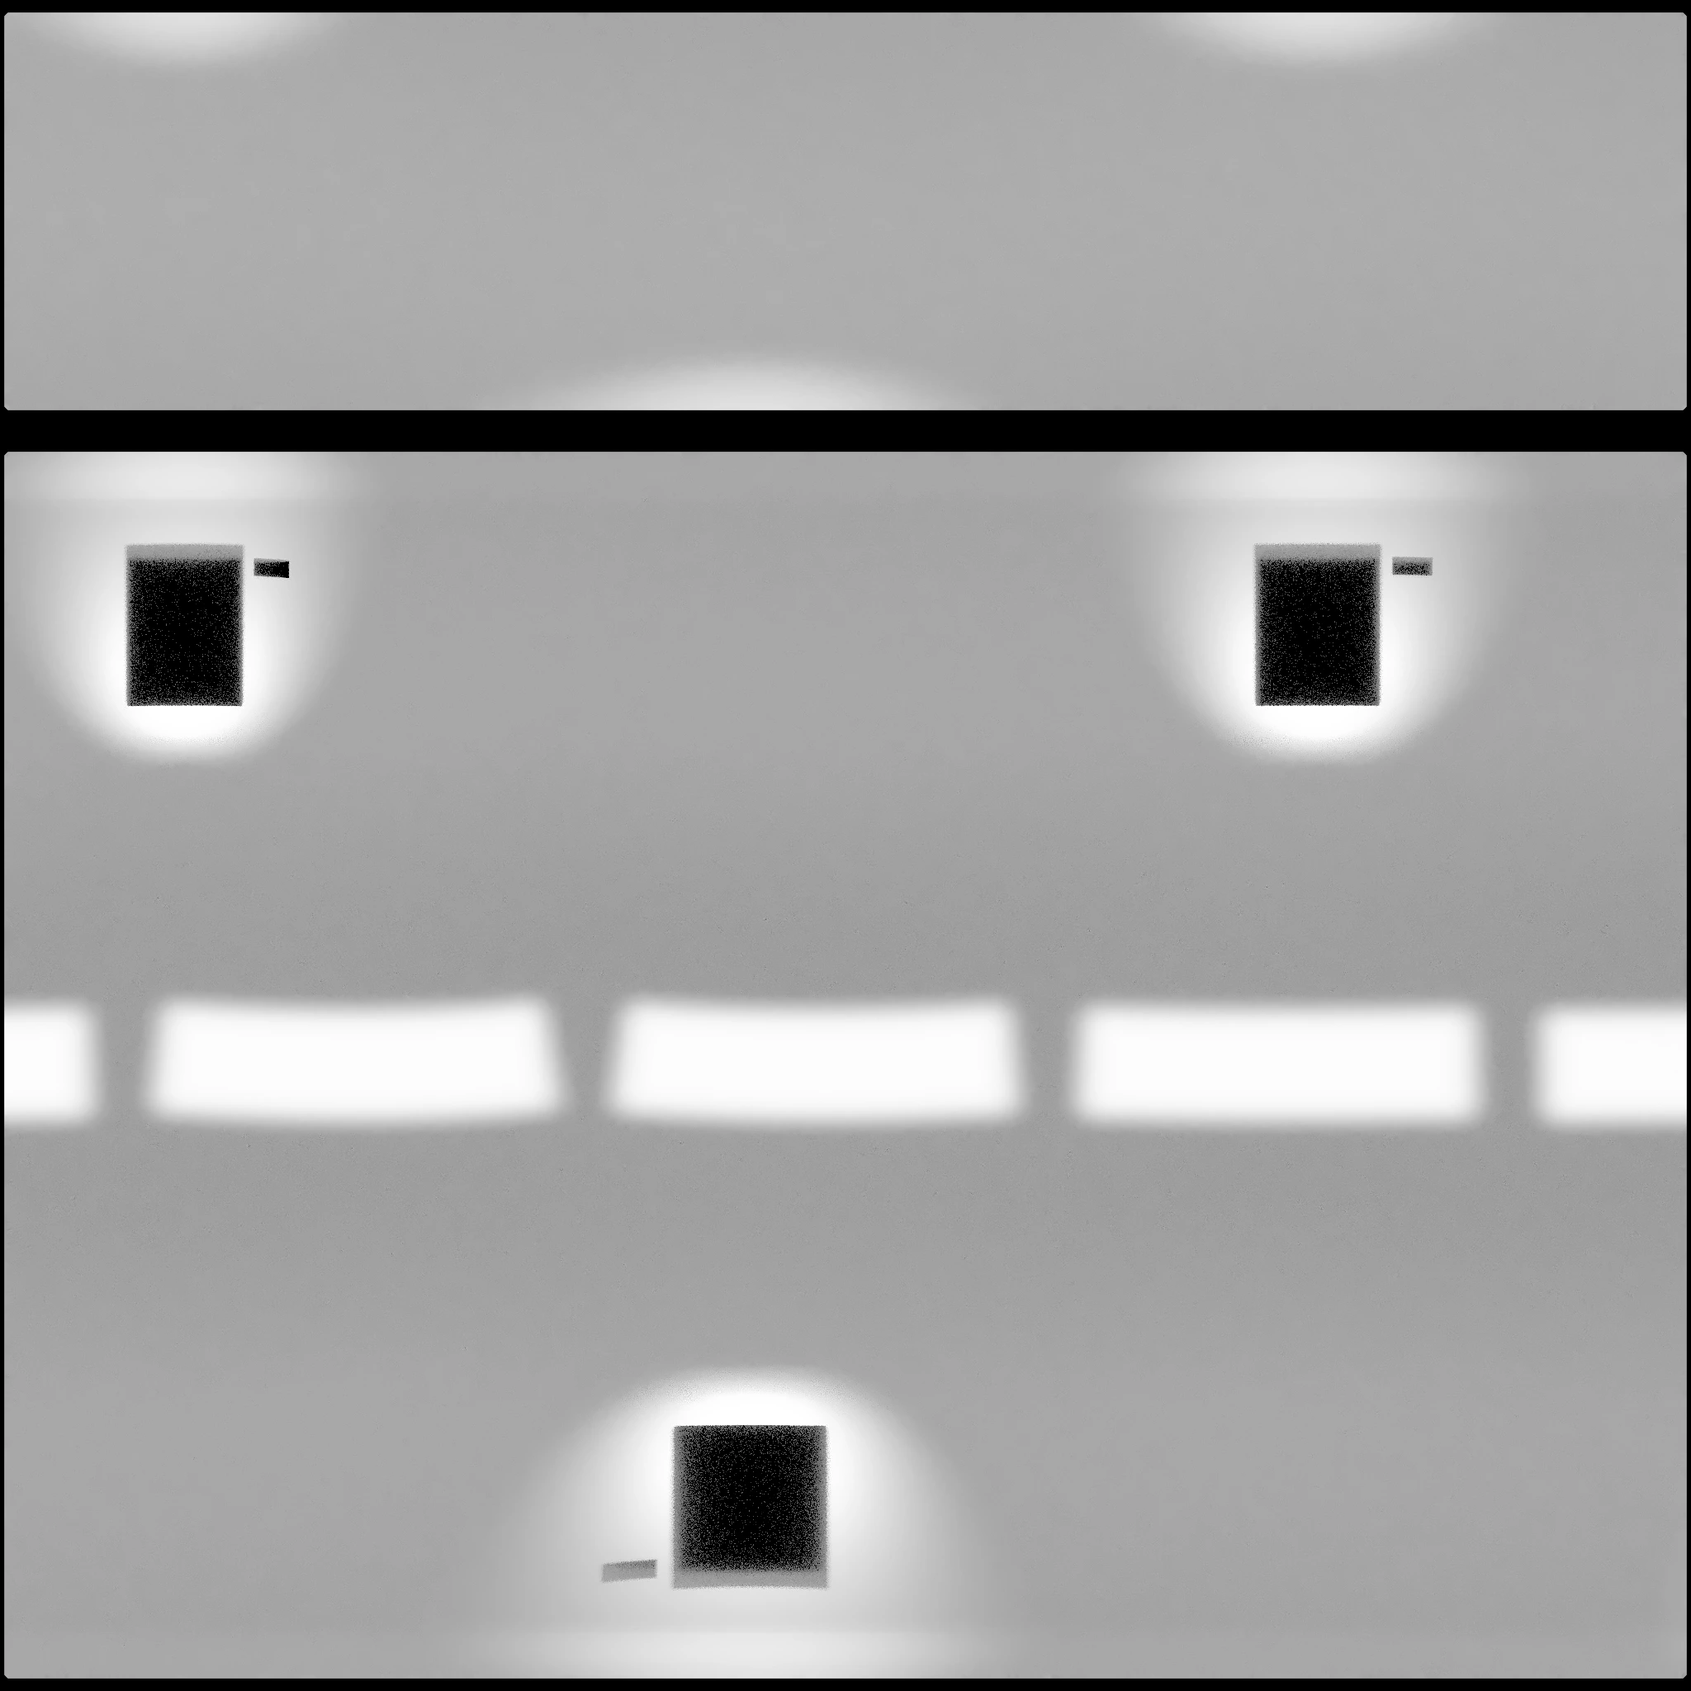
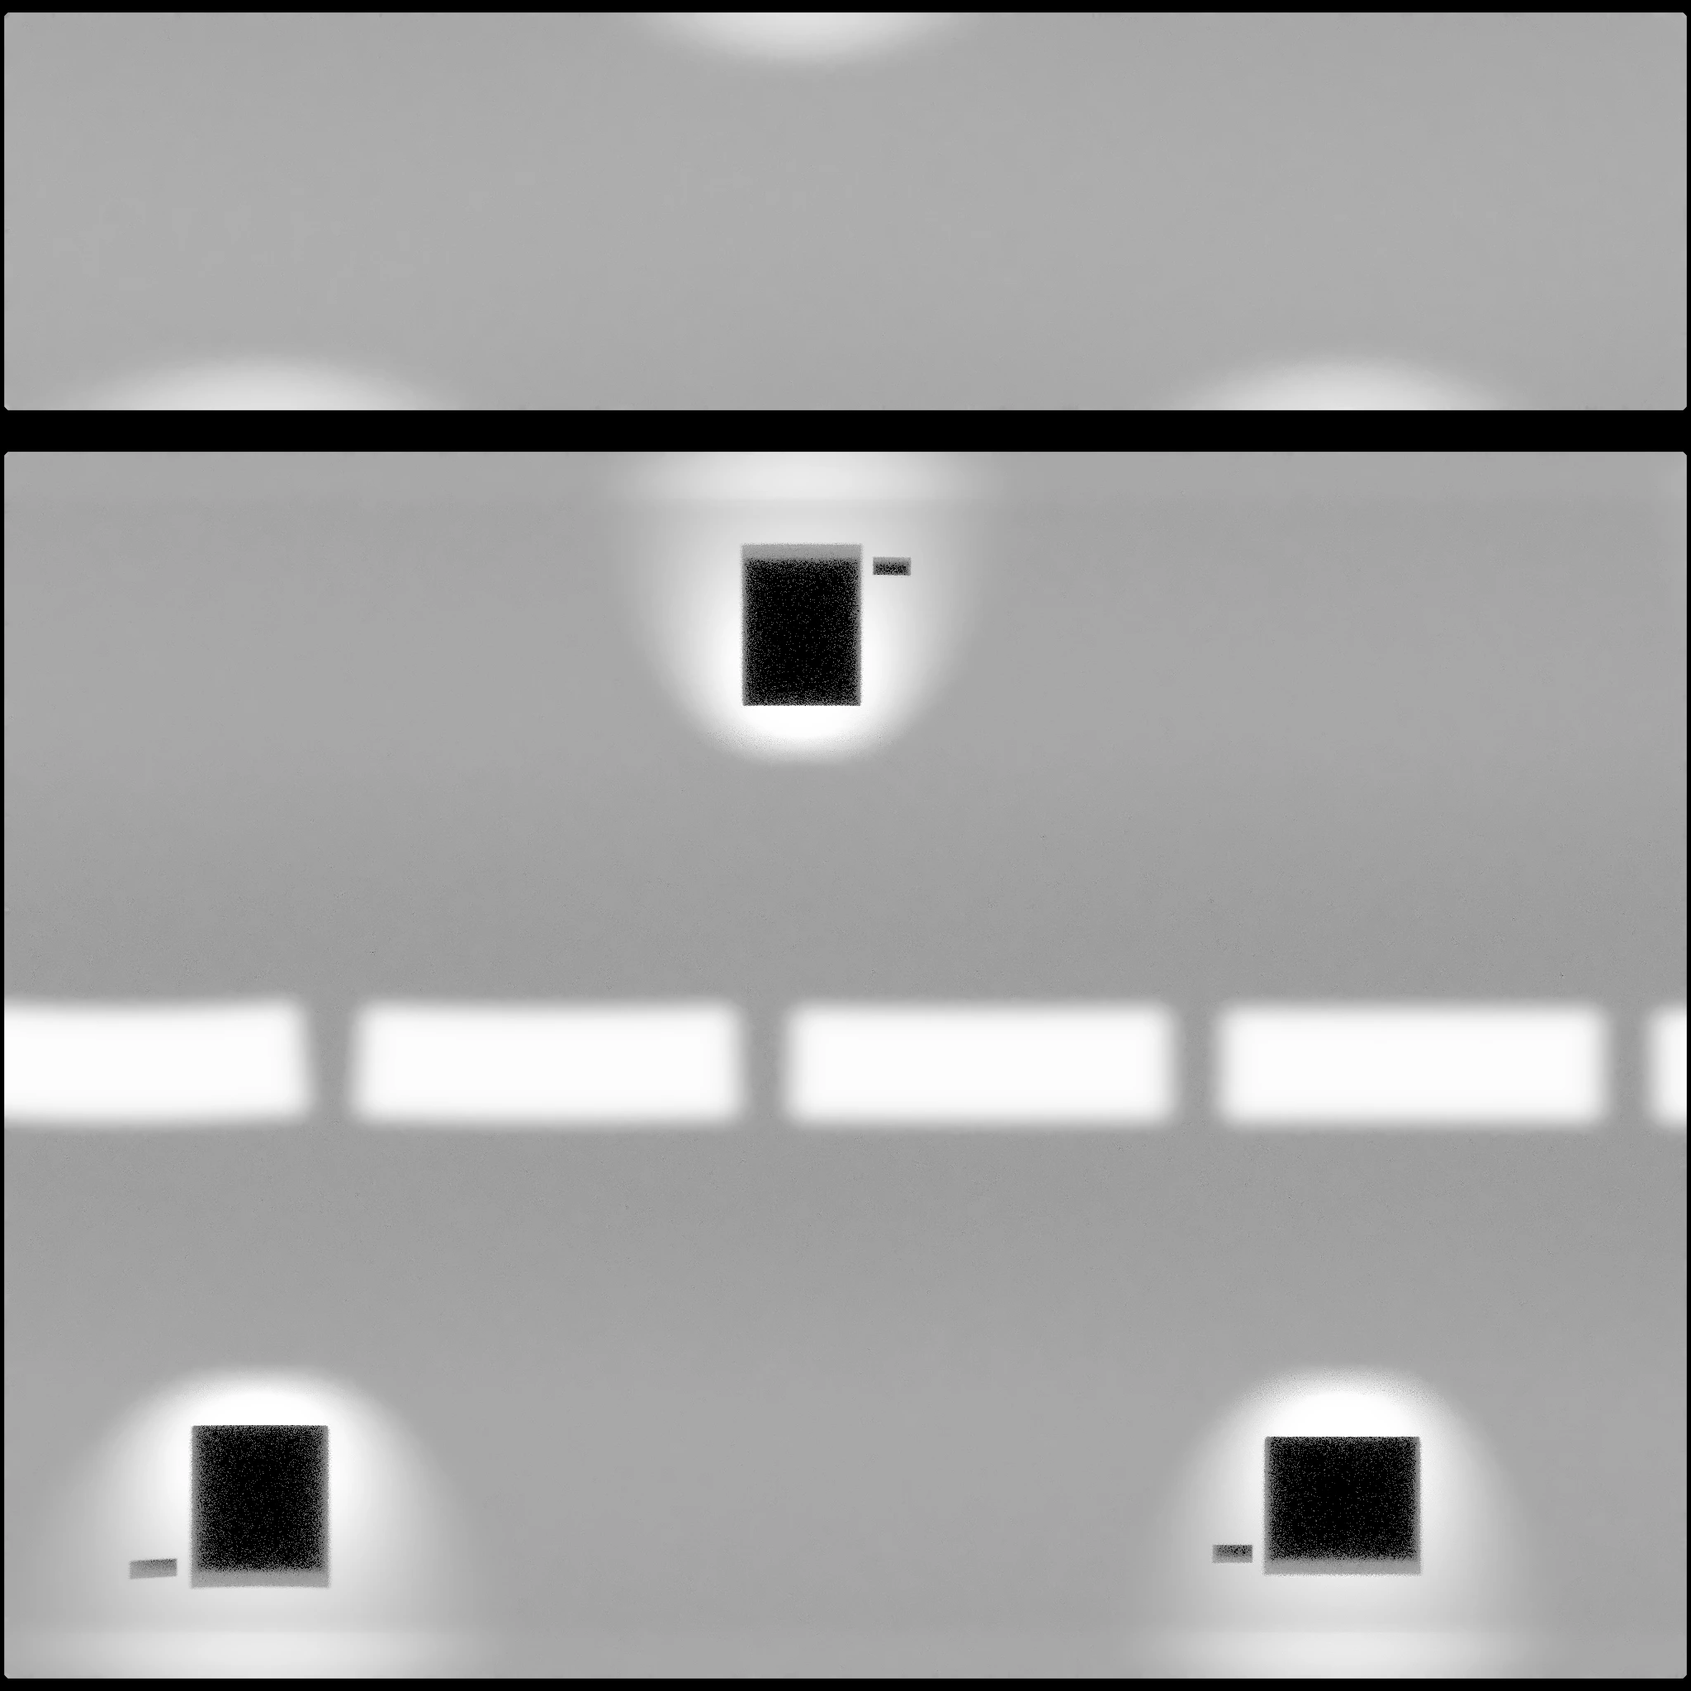
ZsArt: A vágy (21. kép), hiányzó shop-linkek, ecset-kurzor, fotó a végfalon, újrasütött fény 21 képpel
Claude-Session: https://claude.ai/code/session_01VdjVJekSgJN5NPM9qWpNCb

diff --git a/src/components/zsart/data.ts b/src/components/zsart/data.ts
@@ -6,10 +6,10 @@ const WORKS: Work[] = [
   {"id": "minden-jo", "title": "Minden jó!", "artist": "Zsoze", "year": 2025, "medium": "Akril vásznon", "story": "Ami ihlette a képet, mikor megkérdezi valaki, hogy vagy és csak annyi jön ki belőled, hogy minden jó. Pedig ez nem igaz és valójában a kérdezőt sem érdekli a valóság. Mindannyian vagyunk így néha amikor úgy látjuk minden rossz és semmi nem olyan amilyennek szeretnénk. Mégis kifelé ezt nem mondjuk, mutatjuk hogy Minden jó.", "w": 1.032, "h": 1.55, "palette": ["#111", "#111", "#111", "#111"], "style": 0, "img": "/zsart/minden-jo.webp?v=2", "imgM": "/zsart/minden-jo-m.webp?v=2", "imgT": "/zsart/minden-jo-t.webp", "shop": "https://shop.zsart.hu/products/minden-jo", "video": "https://www.youtube.com/watch?v=OmAifCcdAd0"},
   {"id": "regi-cipo", "title": "Régi cipő", "artist": "Zsoze", "year": 2026, "medium": "Akril vásznon", "story": "", "w": 1.035, "h": 1.55, "palette": ["#111", "#111", "#111", "#111"], "style": 0, "img": "/zsart/regi-cipo.webp?v=2", "imgM": "/zsart/regi-cipo-m.webp?v=2", "imgT": "/zsart/regi-cipo-t.webp"},
   {"id": "ido-1", "title": "Idő 1", "artist": "Zsoze", "year": 2026, "medium": "Akril vásznon", "story": "Az Idő cimű sorozat első festménye. 15 éves lehettem, mikor belenéztem a tükörbe, és így megnéztem magam alaposan. Élesen emlékszem rá, majd eszembe jutott ez a pillanat 20 évvel később, és újra belenéztem, de a gondolataimban még arra emlékeztem, amikor 15 éves vagyok. A tükörben meg egy 36 éves forma van, bazzeg, az idő rohan, és az ember próbálja tartani a lépést fejben, de lehetetlen. A képen a képzeletbeli 70 éves ember vagyok. És a sok hirtelen, rohanásból meghozott döntés, ami akkor 2 perc volt, jó döntések voltak-e? Jól használtam-e föl az időt? Mit hibáztam? Mit csinálnék másképpen? Erről a gondolatmenetről szól ez a sorozat és az ez miatti aggódásról.", "w": 1.035, "h": 1.55, "palette": ["#111", "#111", "#111", "#111"], "style": 0, "img": "/zsart/ido-1.webp?v=2", "imgM": "/zsart/ido-1-m.webp?v=2", "imgT": "/zsart/ido-1-t.webp", "shop": "https://shop.zsart.hu/products/ido-1", "video": "https://www.youtube.com/watch?v=dfYFkAKRV5Q"},
-  {"id": "ido-2", "title": "Idő 2", "artist": "Zsoze", "year": 2026, "medium": "Akril vásznon", "story": "Az Idő című sorozat második festménye.", "w": 1.027, "h": 1.55, "palette": ["#111", "#111", "#111", "#111"], "style": 0, "img": "/zsart/ido-2.webp?v=2", "imgM": "/zsart/ido-2-m.webp?v=2", "imgT": "/zsart/ido-2-t.webp", "video": "https://www.youtube.com/watch?v=f8akID2Es54"},
-  {"id": "ido-3", "title": "Idő 3", "artist": "Zsoze", "year": 2026, "medium": "Akril vásznon", "story": "Az Idő című sorozat harmadik festménye. Idős kori önarckép az idő sorozat záró festménye", "w": 1.023, "h": 1.55, "palette": ["#111", "#111", "#111", "#111"], "style": 0, "img": "/zsart/ido-3.webp?v=2", "imgM": "/zsart/ido-3-m.webp?v=2", "imgT": "/zsart/ido-3-t.webp", "video": "https://www.youtube.com/watch?v=B97aIZjM66o&t=13s"},
-  {"id": "egyedul", "title": "Egyedül", "artist": "Zsoze", "year": 2026, "medium": "Akril vásznon", "story": "Egyszer ígértem, hogy jövök tájképpel, bár nem érzem a kapcsolódást ezzel a témával, csak ebben a formában", "w": 1.035, "h": 1.55, "palette": ["#111", "#111", "#111", "#111"], "style": 0, "img": "/zsart/egyedul.webp?v=2", "imgM": "/zsart/egyedul-m.webp?v=2", "imgT": "/zsart/egyedul-t.webp", "video": "https://www.youtube.com/watch?v=B97aIZjM66o&t=13s"},
-  {"id": "minden-jo-2", "title": "Minden jó 2", "artist": "Zsoze", "year": 2026, "medium": "Akril vásznon", "story": "A minden jó című kép testvére, amikor kívülről minden rendben, de a valóság abban pillanatban más.", "w": 1.035, "h": 1.55, "palette": ["#111", "#111", "#111", "#111"], "style": 0, "img": "/zsart/minden-jo-2.webp?v=2", "imgM": "/zsart/minden-jo-2-m.webp?v=2", "imgT": "/zsart/minden-jo-2-t.webp", "video": "https://www.youtube.com/watch?v=GZOC_ExWTsg"},
+  {"id": "ido-2", "title": "Idő 2", "artist": "Zsoze", "year": 2026, "medium": "Akril vásznon", "story": "Az Idő című sorozat második festménye.", "w": 1.027, "h": 1.55, "palette": ["#111", "#111", "#111", "#111"], "style": 0, "img": "/zsart/ido-2.webp?v=2", "imgM": "/zsart/ido-2-m.webp?v=2", "shop": "https://shop.zsart.hu/products/ido-ii-masolat", "imgT": "/zsart/ido-2-t.webp", "video": "https://www.youtube.com/watch?v=f8akID2Es54"},
+  {"id": "ido-3", "title": "Idő 3", "artist": "Zsoze", "year": 2026, "medium": "Akril vásznon", "story": "Az Idő című sorozat harmadik festménye. Idős kori önarckép az idő sorozat záró festménye", "w": 1.023, "h": 1.55, "palette": ["#111", "#111", "#111", "#111"], "style": 0, "img": "/zsart/ido-3.webp?v=2", "imgM": "/zsart/ido-3-m.webp?v=2", "shop": "https://shop.zsart.hu/products/ido-sorozat-teljes", "imgT": "/zsart/ido-3-t.webp", "video": "https://www.youtube.com/watch?v=B97aIZjM66o&t=13s"},
+  {"id": "egyedul", "title": "Egyedül", "artist": "Zsoze", "year": 2026, "medium": "Akril vásznon", "story": "Egyszer ígértem, hogy jövök tájképpel, bár nem érzem a kapcsolódást ezzel a témával, csak ebben a formában", "w": 1.035, "h": 1.55, "palette": ["#111", "#111", "#111", "#111"], "style": 0, "img": "/zsart/egyedul.webp?v=2", "imgM": "/zsart/egyedul-m.webp?v=2", "shop": "https://shop.zsart.hu/products/egyedul", "imgT": "/zsart/egyedul-t.webp", "video": "https://www.youtube.com/watch?v=B97aIZjM66o&t=13s"},
+  {"id": "minden-jo-2", "title": "Minden jó 2", "artist": "Zsoze", "year": 2026, "medium": "Akril vásznon", "story": "A minden jó című kép testvére, amikor kívülről minden rendben, de a valóság abban pillanatban más.", "w": 1.035, "h": 1.55, "palette": ["#111", "#111", "#111", "#111"], "style": 0, "img": "/zsart/minden-jo-2.webp?v=2", "imgM": "/zsart/minden-jo-2-m.webp?v=2", "shop": "https://shop.zsart.hu/products/egyedul-masolat", "imgT": "/zsart/minden-jo-2-t.webp", "video": "https://www.youtube.com/watch?v=GZOC_ExWTsg"},
   {"id": "burokban", "title": "Burokban", "artist": "Zsoze", "year": 2025, "medium": "Akril vásznon", "story": "Ez az előítéletről és a sztereotípiákról szól, amiből a megítélt többnyire nem is tud és semmit nem tapasztal.", "w": 1.034, "h": 1.55, "palette": ["#111", "#111", "#111", "#111"], "style": 0, "img": "/zsart/burokban.webp?v=2", "imgM": "/zsart/burokban-m.webp?v=2", "imgT": "/zsart/burokban-t.webp", "shop": "https://shop.zsart.hu/products/zacskos-lany", "video": "https://www.youtube.com/watch?v=DEe379hNSag&t=2s"},
   {"id": "dac", "title": "Dac", "artist": "Zsoze", "year": 2025, "medium": "Akril vásznon", "story": "Szándékos provokálás lázadás és minden norma felrúgása szándékosan. Egyike az első eladott eredeti festményeimnek. 2.000.000Ft-ért került eladásra.", "w": 1.022, "h": 1.55, "palette": ["#111", "#111", "#111", "#111"], "style": 0, "img": "/zsart/dac.webp?v=2", "imgM": "/zsart/dac-m.webp?v=2", "imgT": "/zsart/dac-t.webp", "video": "https://www.youtube.com/watch?v=wI-SFo2Tofs&t=1s"},
   {"id": "a-kegyes", "title": "A kegyes", "artist": "Zsoze", "year": 2025, "medium": "Akril vásznon", "story": "Amikor úgy vagy vele jobb is, ha nem tudod és nem is akarod tudni az igazat.", "w": 1.035, "h": 1.55, "palette": ["#111", "#111", "#111", "#111"], "style": 0, "img": "/zsart/a-kegyes.webp?v=2", "imgM": "/zsart/a-kegyes-m.webp?v=2", "imgT": "/zsart/a-kegyes-t.webp", "shop": "https://shop.zsart.hu/products/a-kegyes", "video": "https://www.youtube.com/watch?v=MRrw6jr6fvY"},
@@ -23,15 +23,16 @@ const WORKS: Work[] = [
   {"id": "szegyenerzet", "title": "Szégyenérzet", "artist": "Zsoze", "year": 2024, "medium": "Akril vásznon", "story": "Mert megítélték olyanok, akik maguk is bűnösök. Most már elhiszi az ő igazukat.", "w": 1.013, "h": 1.55, "palette": ["#111", "#111", "#111", "#111"], "style": 0, "img": "/zsart/szegyenerzet.webp?v=2", "imgM": "/zsart/szegyenerzet-m.webp?v=2", "imgT": "/zsart/szegyenerzet-t.webp", "shop": "https://shop.zsart.hu/products/szegyenerzet", "video": "https://www.youtube.com/watch?v=7ESrazhfOOQ"},
   {"id": "nevetes", "title": "Nevetés", "artist": "Zsoze", "year": 2023, "medium": "Akril vásznon", "story": "Nevetés a sírás határán, hangosan, hogy ne hallja, mi zajlik belül.", "w": 1.034, "h": 1.55, "palette": ["#111", "#111", "#111", "#111"], "style": 0, "img": "/zsart/nevetes.webp?v=2", "imgM": "/zsart/nevetes-m.webp?v=2", "imgT": "/zsart/nevetes-t.webp", "shop": "https://shop.zsart.hu/products/kialtos-kep", "video": "https://www.youtube.com/watch?v=9Avp5t-nI9k"},
   {"id": "a-vigasztalhatatlan", "title": "A vígasztalhatatlan", "artist": "Zsoze", "year": 2022, "medium": "Akril vásznon", "story": "A kislányom jut eszembe mikor sír és meg akarom vigasztalni, de nem tudom, rá nézek a képre és ez jut eszembe.", "w": 1.314, "h": 1.3, "palette": ["#111", "#111", "#111", "#111"], "style": 0, "img": "/zsart/a-vigasztalhatatlan.webp?v=2", "imgM": "/zsart/a-vigasztalhatatlan-m.webp?v=2", "imgT": "/zsart/a-vigasztalhatatlan-t.webp", "shop": "https://shop.zsart.hu/products/a-vigasztalhatatlan", "video": "https://www.youtube.com/watch?v=BIBSwSQL94c"},
+  {"id": "a-vagy", "title": "A vágy", "artist": "Zsoze", "year": 2024, "medium": "", "story": "", "w": 1.048, "h": 1.55, "palette": ["#111", "#111", "#111", "#111"], "style": 0, "img": "/zsart/a-vagy.webp", "imgM": "/zsart/a-vagy-m.webp", "imgT": "/zsart/a-vagy-t.webp", "shop": "https://shop.zsart.hu/products/ujjat-a-szajaba-tevo-no-kep"},
 ];
 
 export const ZSART: GalleryConfig = {
   cls: "zs", script: true, works: WORKS,
   logo: { src: "/zsart/logo.png", w: 800, h: 178, alt: "ZsArt" },
   note: "Koncepcióterv, nem hivatalos oldal", noteLink: { href: "/", label: "HRVT" },
-  title: ["Zsoze", "festményei"], sub: "Húsz festmény egy folyosón. Görgess, és sétálj végig. Ha egy kép megállít, kattints rá.",
+  title: ["Zsoze", "festményei"], sub: "Huszonegy festmény egy folyosón. Görgess, és sétálj végig. Ha egy kép megállít, kattints rá.",
   shop: { href: "https://shop.zsart.hu", label: "Shop" },
-  endLogo: { src: "/zsart/logo-wall.png", aspect: 2048 / 456 },
-  baked: { base: "/zsart/lm", segs: 8, lmax: 2.089, expo: 1.38 },
+  endLogo: { src: "/zsart/end-photo.webp", aspect: 1280 / 1921, w: 1.45, wMobile: 1.2, framed: true },
+  baked: { base: "/zsart/lm", segs: 8, lmax: 2.09, expo: 1.38, ver: 2 },
   theme: { serif: 'Birthstone, cursive', titlePx: 78, sans: '"Onest Variable", sans-serif', accent: "#b3122a" },
 };

diff --git a/src/components/galeria/scene.ts b/src/components/galeria/scene.ts
@@ -25,10 +25,10 @@ export type Api = {
   destroy: () => void;
 };
 /** Lightmaps baked in Blender: `${base}_${k}.webp` per corridor segment, `${base}_cap0/1.webp` for the end walls. */
-export type Baked = { base: string; segs: number; lmax: number; expo?: number };
+export type Baked = { base: string; segs: number; lmax: number; expo?: number; ver?: number };
 export type Theme = { serif: string; sans: string; accent: string; titlePx?: number };
 type Opts = {
-  canvas: HTMLCanvasElement; works: Work[]; theme?: Theme; baked?: Baked; endLogo?: { src: string; aspect: number; w?: number; wMobile?: number };
+  canvas: HTMLCanvasElement; works: Work[]; theme?: Theme; baked?: Baked; endLogo?: { src: string; aspect: number; w?: number; wMobile?: number; framed?: boolean };
   onFrame: (f: Frame) => void; onHover: (i: number | null) => void;
   onFocused: (i: number) => void; onReleased: () => void;
 };
@@ -247,7 +247,7 @@ export function mount({ canvas, works, endLogo, baked, theme = { serif: "Gloock,
 
   const prof = profile();
   const floorProf: P[] = Array.from({ length: 13 }, (_, k) => [-(HALF_W - 0.35) + ((HALF_W - 0.35) * 2 * k) / 12, 0, 1]);
-  const lmMix = { value: 0 }, lmLoader = new TextureLoader(), lmSuffix = mobile ? "-m.webp" : ".webp";
+  const lmMix = { value: 0 }, lmLoader = new TextureLoader(), lmSuffix = (mobile ? "-m.webp" : ".webp") + (baked?.ver ? `?v=${baked.ver}` : "");
   const bakedMat = (floor: boolean, url: string) => {
     const m = new ShaderMaterial({
       uniforms: { ...uniforms, uBase: floor ? floorU.uBase : uniforms.uBase, uLM: { value: null as Texture | null }, uLMax: { value: baked!.lmax }, uMix: lmMix, uExpo: { value: baked!.expo ?? 1.55 } },
@@ -283,7 +283,7 @@ export function mount({ canvas, works, endLogo, baked, theme = { serif: "Gloock,
   /* artworks + their reflections */
   const artRoot = new Group(), mirror = new Group(); mirror.scale.y = -1; scene.add(artRoot, mirror);
   const pmrem = new PMREMGenerator(renderer), envTex = baked ? pmrem.fromScene(new RoomEnvironment(), 0.04).texture : null;
-  const frameMat = baked ? new MeshStandardMaterial({ color: 0x1b1916, roughness: 0.36, metalness: 0.2, envMap: envTex, envMapIntensity: 0.85 }) : null;
+  const frameMat = baked ? new MeshStandardMaterial({ color: 0x1b1916, roughness: 0.36, metalness: 0.2, envMap: envTex, envMapIntensity: 0.6 }) : null;
   const shadowT = shadowTexture(), maxAniso = renderer.capabilities.getMaxAnisotropy();
   const bmp = typeof createImageBitmap === "function" ? new ImageBitmapLoader().setOptions({ imageOrientation: "flipY", premultiplyAlpha: "none" }) : null;
   const plain = new TextureLoader();
@@ -329,11 +329,12 @@ export function mount({ canvas, works, endLogo, baked, theme = { serif: "Gloock,
   if (endLogo) {
     const uE = 0.9995, pE = curve.getPointAt(uE), tE = curve.getTangentAt(uE).setY(0).normalize();
     const wL = mobile ? endLogo.wMobile ?? 1.5 : endLogo.w ?? 2.5, hL = wL / endLogo.aspect;
-    const lm = new MeshBasicMaterial({ transparent: true, opacity: 0, depthWrite: false, side: DoubleSide });
+    const lm = new MeshBasicMaterial({ transparent: !endLogo.framed, opacity: 0, depthWrite: !!endLogo.framed, side: DoubleSide });
     const lp = new Mesh(new PlaneGeometry(wL, hL), lm);
-    lp.position.copy(pE).addScaledVector(tE, -0.02).setY(1.75); lp.lookAt(lp.position.clone().sub(tE)); lp.renderOrder = 5;
+    lp.position.copy(pE).addScaledVector(tE, endLogo.framed ? -0.058 : -0.02).setY(1.75); lp.lookAt(lp.position.clone().sub(tE)); lp.renderOrder = 5;
+    if (endLogo.framed && frameMat) { const fr = new Mesh(frameGeometry(wL, hL), frameMat); fr.position.z = -0.058; lp.add(fr); }
     scene.add(lp); const lr = lp.clone(); mirror.add(lr);
-    plain.load(endLogo.src, (t) => { t.colorSpace = SRGBColorSpace; t.anisotropy = maxAniso; lm.map = t; lm.opacity = 0.92; lm.needsUpdate = true; });
+    plain.load(endLogo.src, (t) => { t.colorSpace = SRGBColorSpace; t.anisotropy = maxAniso; lm.map = t; lm.opacity = endLogo.framed ? 1 : 0.92; lm.needsUpdate = true; });
   }
 
   /* camera state */

diff --git a/src/components/galeria/data.ts b/src/components/galeria/data.ts
@@ -9,14 +9,14 @@ export type Work = {
 };
 export type GalleryConfig = {
   cls?: string; works: Work[];
-  /** logo shown large on the wall at the end of the corridor */ endLogo?: { src: string; aspect: number; w?: number; wMobile?: number };
+  /** logo shown large on the wall at the end of the corridor */ endLogo?: { src: string; aspect: number; w?: number; wMobile?: number; framed?: boolean };
   /** titles are set in a script face: never split or clip them */ script?: boolean;
   logo: { src: string; w: number; h: number; label?: string; alt: string };
   note: string; noteLink?: { href: string; label: string };
   title: [string, string]; sub: string;
   /** header button: the cart counter, or a link to an outside shop */ shop?: { href: string; label: string };
   /** no shop and no cart: a pure portfolio */ noCart?: boolean;
-  /** lightmaps baked in Blender for this corridor */ baked?: { base: string; segs: number; lmax: number; expo?: number };
+  /** lightmaps baked in Blender for this corridor */ baked?: { base: string; segs: number; lmax: number; expo?: number; ver?: number };
   theme?: { serif: string; sans: string; accent: string; titlePx?: number };
 };
 

diff --git a/src/app/zsart/zsart.css b/src/app/zsart/zsart.css
@@ -8,3 +8,6 @@
 @keyframes zsIn { from { opacity:0; transform:translateY(.35em); } }
 .gal.zs .panel-title { font-size:clamp(3.2rem,5.2vw,4.8rem); margin:1rem 0 0 -.3em; }
 .gal.zs .worklist .disp { font-size:1.5rem; padding:0 .3em; }
+/* the cursor is a paintbrush; over a painting it carries a drop of paint (= clickable) */
+.gal.zs, .gal.zs * { cursor: url("/zsart/brush.svg") 4 36, auto; }
+.gal.zs.is-hover .gal-canvas, .gal.zs a, .gal.zs button, .gal.zs .map-tick { cursor: url("/zsart/brush-paint.svg") 4 36, pointer; }
